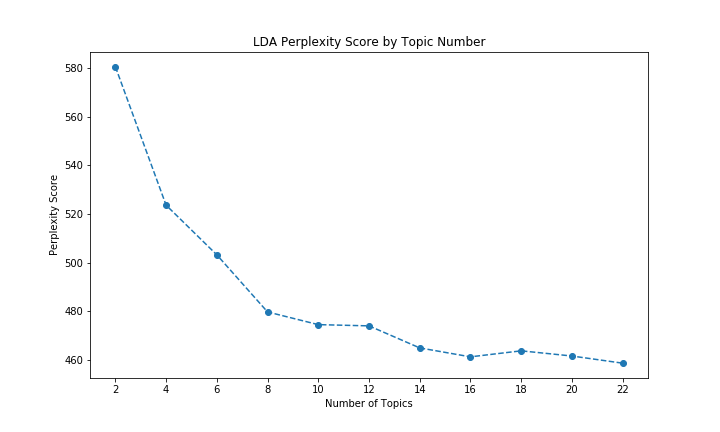
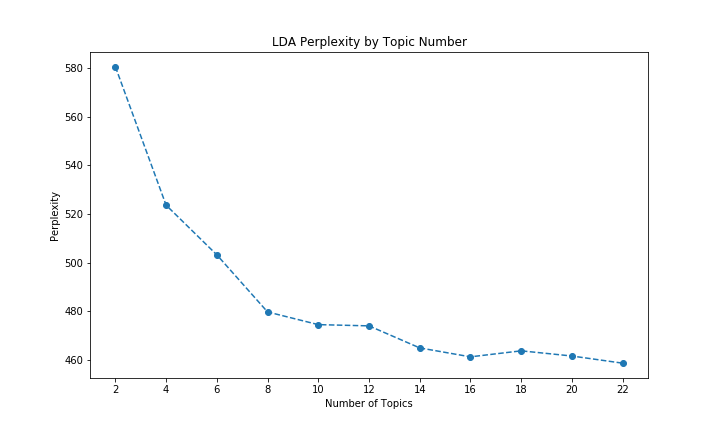
feat: edit perplexity summary, add css file

Changed region(s): [[0.3361, 0.0903, 0.6722, 0.1204], [0.0611, 0.4213, 0.0917, 0.6019]]

diff --git a/index.html b/index.html
@@ -9,7 +9,7 @@
     <p> The following topics were generated using a Latent Dirichlet Allocation (LDA) model in Scikit-Learn on the entire training set. LDA is a statistical model that finds the different mix of <code>n</code> topics that explain each comment. Comparing the perplexity metrics across models that use increasing number of <code>n</code> topics can help determine the appropriate number of topics for the dataset.</p>
     <p><a hrer="https://en.wikipedia.org/wiki/Perplexity">Wikipedia's article</a> defines perplexity as:</p>
 
-    <blockquote>In information theory, **perplexity** is a measurement of how well a probability distribution or probability model predicts a sample. It may be used to compare probability models. A low perplexity indicates the probability distribution is good at predicting the sample.</blockquote>
+    <blockquote>In information theory, <bold>perplexity</bold> is a measurement of how well a probability distribution or probability model predicts a sample. It may be used to compare probability models. A low perplexity indicates the probability distribution is good at predicting the sample.</blockquote>
 
     <p>Since perplexity will continue to drop as the number of topics increases, one way to determine an appropriate topic count is to look for the "elbow" in a chart of scores by topic.</p>
 
